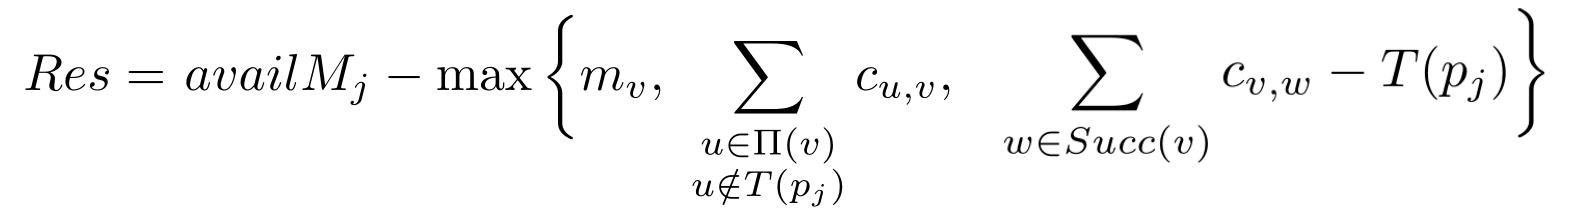
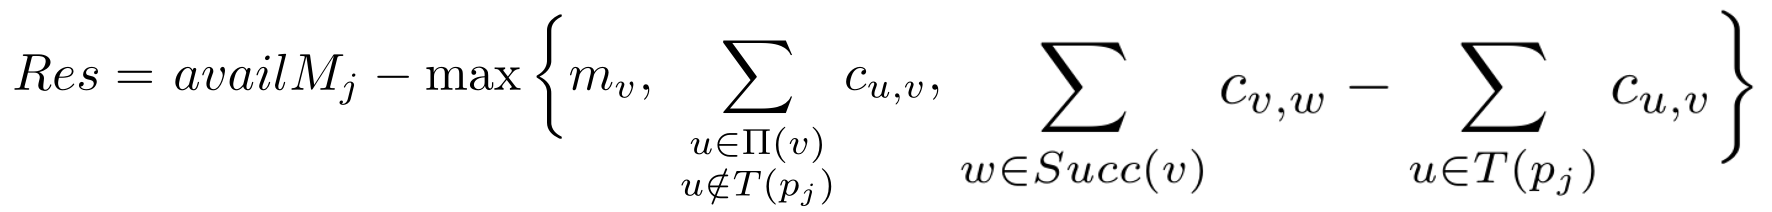
final correction of Res formula

diff --git a/main.tex b/main.tex
@@ -849,7 +849,7 @@ i.e., $c_{u,v}\in PD_j$. Otherwise, the finish time is set to~$+\infty$ (invalid
 Res =\ & availM_j - \max \bigg\{ m_v,\
 \sum_{\substack{u \in \Pi(v)\\ u \notin T(p_j)}} c_{u,v},\\
 & \hspace{1.5cm}
-\sum_{\substack{w \in Succ(v)}} c_{v,w} - T(p_j) \bigg\}
+\sum_{\substack{w \in Succ(v)}} c_{v,w} - \sum_{\substack{u \in T(p_j)}} c_{u,v}  \bigg\}
 \end{align*}
 
 $T(p_j)$ is the set of tasks already scheduled on $p_j$; by Step 1, their files are
